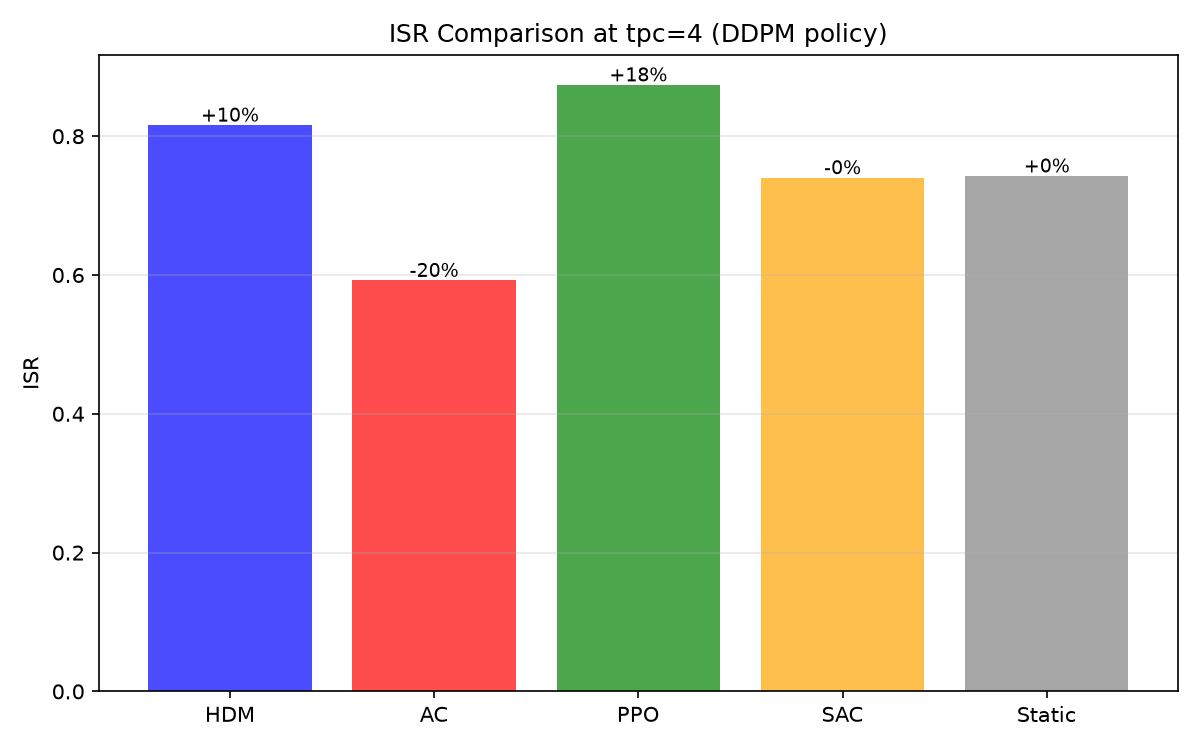
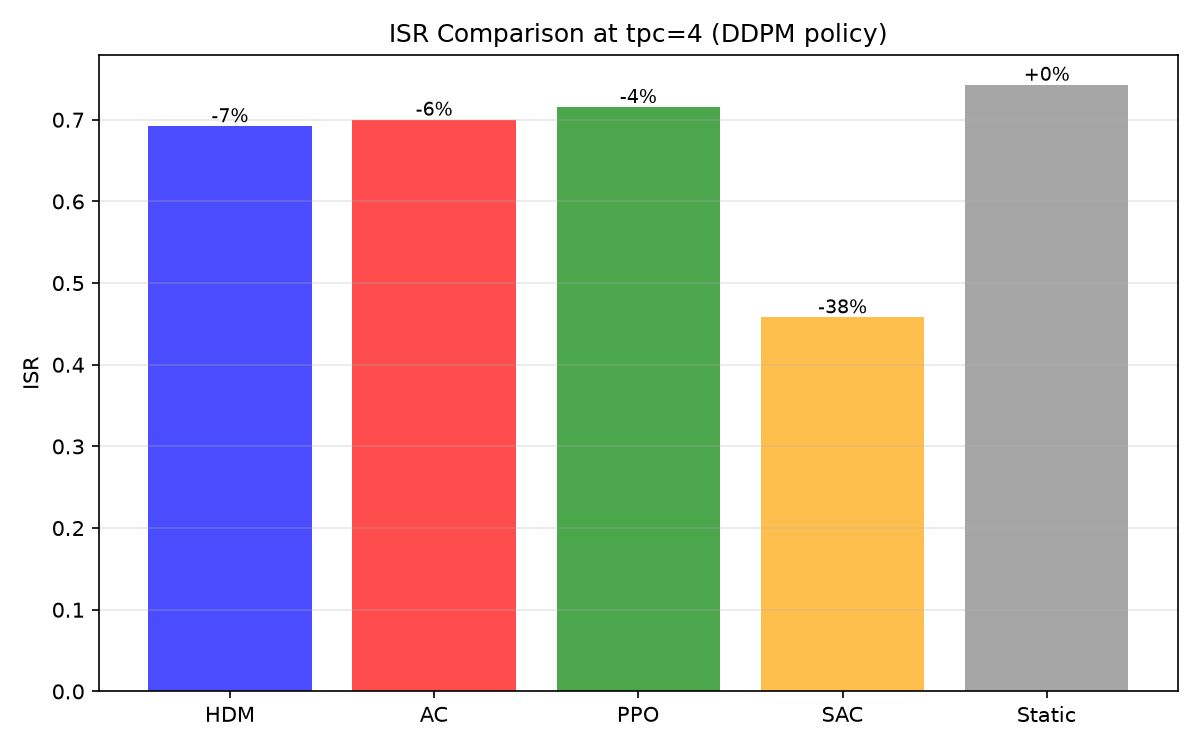
Remove early stopping — train full 1000 episodes

diff --git a/code/hdm/train_han_mlp.py b/code/hdm/train_han_mlp.py
@@ -243,8 +243,6 @@ class HANMLPTrainer:
 
         self.episode = 0
         self.best_isr = 0.0
-        self.patience = 300
-        self.no_improve_count = 0
         self.history = []
         self._ckpt_suffix = ""
 
@@ -403,7 +401,6 @@ class HANMLPTrainer:
                 eval_isr = float(np.mean(eval_isrs))
                 if eval_isr > self.best_isr:
                     self.best_isr = eval_isr
-                    self.no_improve_count = 0
                     torch.save({
                         "han":        self.han.state_dict(),
                         "actor":      self.actor.state_dict(),
@@ -416,11 +413,6 @@ class HANMLPTrainer:
                     }, os.path.join(CHECKPOINT_DIR,
                                     f"han_{POLICY}_tpc{self.tasks_per_csca}{self._ckpt_suffix}_best.pt"))
                     log(f"  -> Best eval ISR: {eval_isr:.3f} (ep {ep})")
-                else:
-                    self.no_improve_count += 50
-                    if self.no_improve_count >= self.patience:
-                        log(f"  [early stop] No improvement for {self.patience} eval intervals. Stopping at ep {ep}.")
-                        break
 
         return self.best_isr
 
